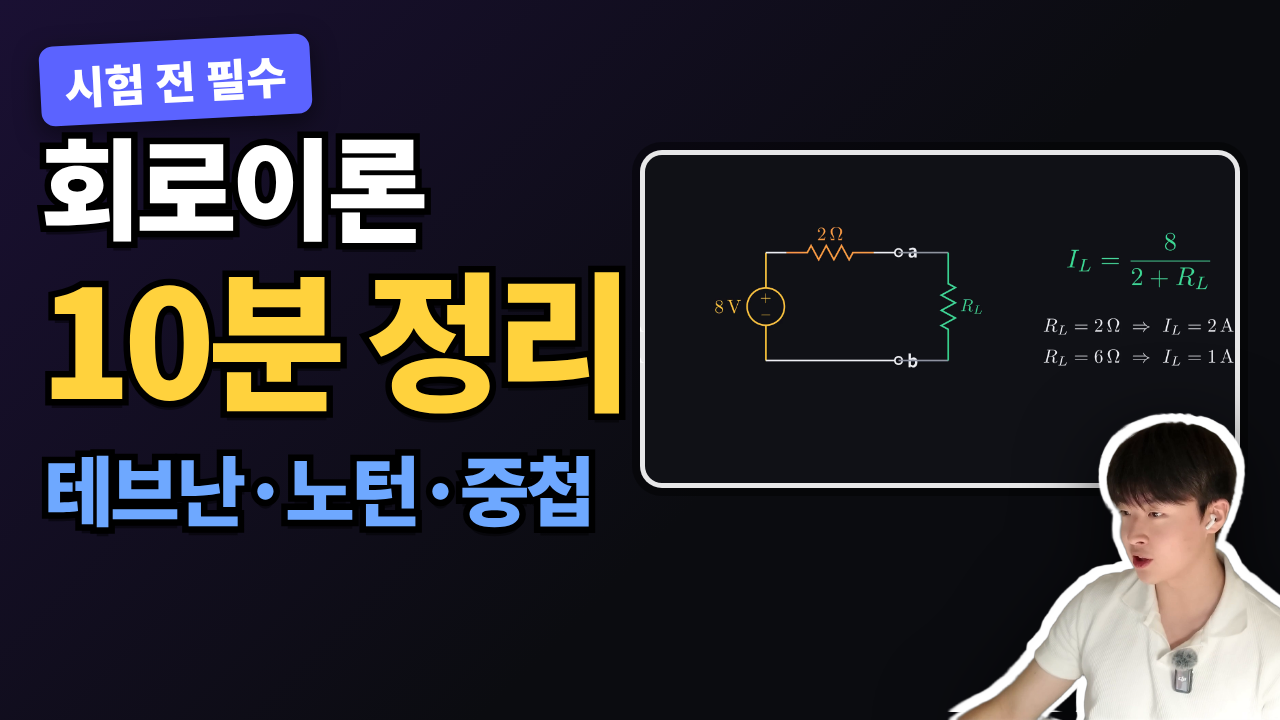
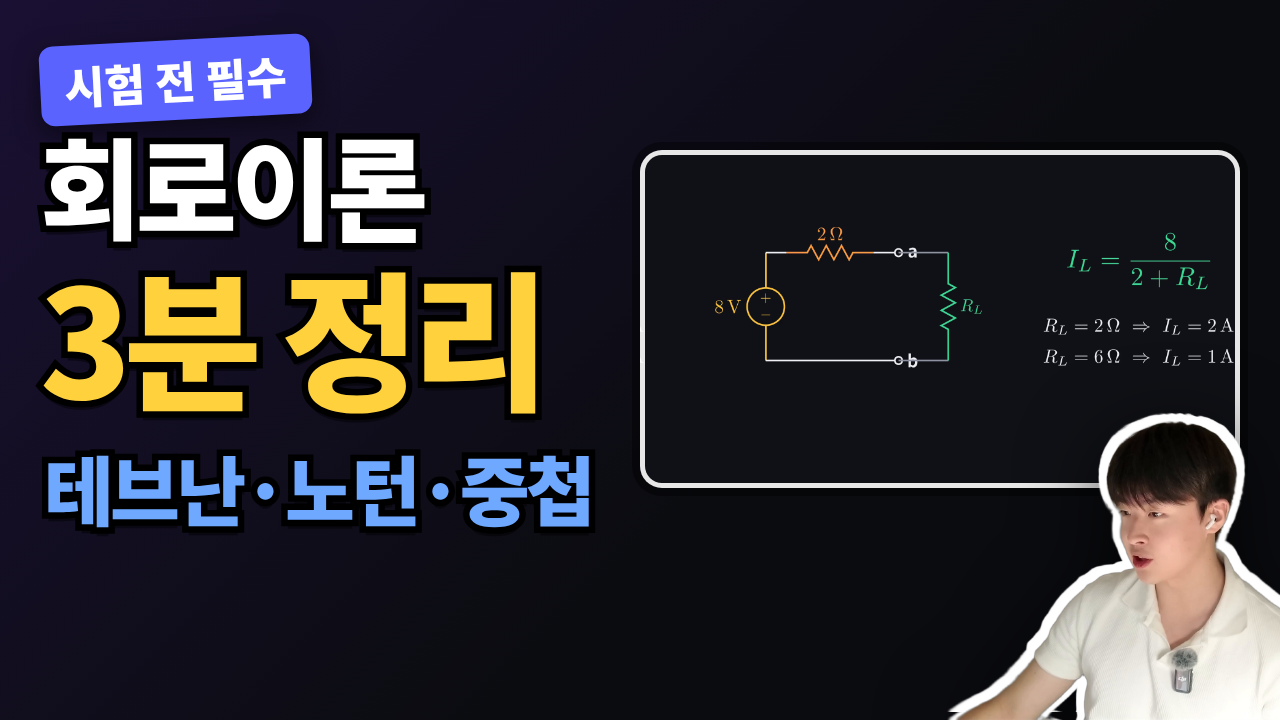
Retitle circuit longform to 3분 정리 and let youtube-update replace thumbnails
Claude-Session: https://claude.ai/code/session_01GtuSVbzcdck5vVrTU7tku2

Changed region(s): [[0.0312, 0.3667, 0.5, 0.5806]]

diff --git a/youtube/circuit10/thumbnail/thumbs.html b/youtube/circuit10/thumbnail/thumbs.html
@@ -1,6 +1,6 @@
 <!doctype html>
 <meta charset="utf-8">
-<title>회로이론 10분 정리 썸네일·커버</title>
+<title>회로이론 3분 정리 썸네일·커버</title>
 <!-- 롱폼 1280×720 3종(테스트 및 비교) + 릴스 커버 1080×1920 3종 -->
 <style>
 *{box-sizing:border-box;margin:0}
@@ -19,7 +19,7 @@ body{background:#000;font-family:'Noto Sans CJK KR',sans-serif}
 #V1 .b{left:40px;top:262px;font-size:120px;color:#ffd23d}
 #V1 .c{left:40px;top:440px;font-size:88px;color:#3ddc97}
 #V1 .badge{left:40px;top:40px}
-/* V2 10분 정리 */
+/* V2 3분 정리 */
 #V2{background:linear-gradient(135deg,#1a1033,#0b0c10 60%)}
 #V2 .img{right:40px;top:150px;width:600px;height:338px;background-image:url(g_thev.png)}
 #V2 .a{left:40px;top:130px;font-size:110px;color:#fff}
@@ -39,7 +39,7 @@ body{background:#000;font-family:'Noto Sans CJK KR',sans-serif}
 <section class="th" id="V1"><div class="img"></div><div class="arr">→</div><div class="img2"></div><div class="badge">전기전자 주목</div>
  <div class="t a">이 복잡한 회로</div><div class="t b">저항 하나로</div><div class="t c">테브난·노턴·중첩</div></section>
 <section class="th" id="V2"><div class="img"></div><div class="badge">시험 전 필수</div>
- <div class="t a">회로이론</div><div class="t b">10분 정리</div><div class="t c">테브난·노턴·중첩</div><img class="person" src="person.png"></section>
+ <div class="t a">회로이론</div><div class="t b">3분 정리</div><div class="t c">테브난·노턴·중첩</div><img class="person" src="person.png"></section>
 <script>
 const R = [
  ['A','전기전자 주목!','복잡한 회로','저항 하나로','g_thev.png','테브난 정리','#ffd23d'],

diff --git a/publish/upload.py b/publish/upload.py
@@ -111,7 +111,7 @@ def youtube(args):
 
 
 def youtube_update(args):
-    """이미 올린 영상의 제목·설명·태그를 고친다. 비운 항목은 그대로 둔다."""
+    """이미 올린 영상의 제목·설명·태그·썸네일을 고친다. 비운 항목은 그대로 둔다."""
     auth = {"Authorization": f"Bearer {youtube_token()}"}
     items = request_json("GET", f"https://www.googleapis.com/youtube/v3/videos?part=snippet&id={args.video_id}",
                          headers=auth).get("items")
@@ -127,6 +127,13 @@ def youtube_update(args):
     request("PUT", "https://www.googleapis.com/youtube/v3/videos?part=snippet",
             data=json.dumps({"id": args.video_id, "snippet": snippet}).encode(),
             headers={**auth, "Content-Type": "application/json; charset=UTF-8"})
+    if args.thumbnail:
+        with open(args.thumbnail, "rb") as f:
+            data = f.read()
+        ctype = mimetypes.guess_type(args.thumbnail)[0] or "image/png"
+        request("POST", f"https://www.googleapis.com/upload/youtube/v3/thumbnails/set?videoId={args.video_id}",
+                data=data, headers={**auth, "Content-Type": ctype})
+        print("썸네일 교체 완료")
     print(f"유튜브 수정 완료: https://youtu.be/{args.video_id} ({snippet['title']})")
     write_summary(f"유튜브 수정: https://youtu.be/{args.video_id}")
 
@@ -591,6 +598,7 @@ def main():
     up.add_argument("--title", default="")
     up.add_argument("--description", default="")
     up.add_argument("--tags", default="")
+    up.add_argument("--thumbnail", default="")
 
     sub.add_parser("youtube-list")
     sub.add_parser("queue")

diff --git a/youtube/circuit10/upload.py b/youtube/circuit10/upload.py
@@ -16,7 +16,7 @@ chap = """00:00 이 복잡한 회로, 저항 하나로
 02:43 자주 틀리는 3가지
 02:56 정리"""
 long = {"platform": "youtube", "video": f"{D}/long.sfx.mp4", "thumbnail": f"{D}/thumb_V2.png",
-        "title": "회로이론 10분 정리 | 테브난·노턴·중첩, 회로 하나로 끝내기",
+        "title": "회로이론 3분 정리 | 테브난·노턴·중첩, 회로 하나로 끝내기",
         "description": f"""복잡한 회로도 두 단자에서 보면 전압원 하나와 저항 하나예요.
 회로 하나로 중첩·테브난·노턴을 전부 풀고, 최대 전력 전달과 시험에서 자주 틀리는 3가지까지 정리했어요.
 
@@ -26,7 +26,7 @@ long = {"platform": "youtube", "video": f"{D}/long.sfx.mp4", "thumbnail": f"{D}/
 {chap}
 
 #회로이론 #테브난 #노턴 #중첩의원리 #전기전자""",
-        "tags": "회로이론,회로이론10분정리,테브난,테브난정리,노턴,노턴정리,중첩,중첩의원리,전원변환,최대전력전달,회로해석,전기회로,"
+        "tags": "회로이론,회로이론3분정리,테브난,테브난정리,노턴,노턴정리,중첩,중첩의원리,전원변환,최대전력전달,회로해석,전기회로,"
                 "기초회로이론,회로이론강의,전기전자,전자공학,전기공학,공대,공대생,대학수학,회로이론시험,중간고사,기말고사,"
                 "전기기사,개방전압,단락전류,테브난등가회로,노턴등가회로,종속전원,보이는회로이론",
         "publish_at": "2026-10-20T12:00:00+09:00"}
